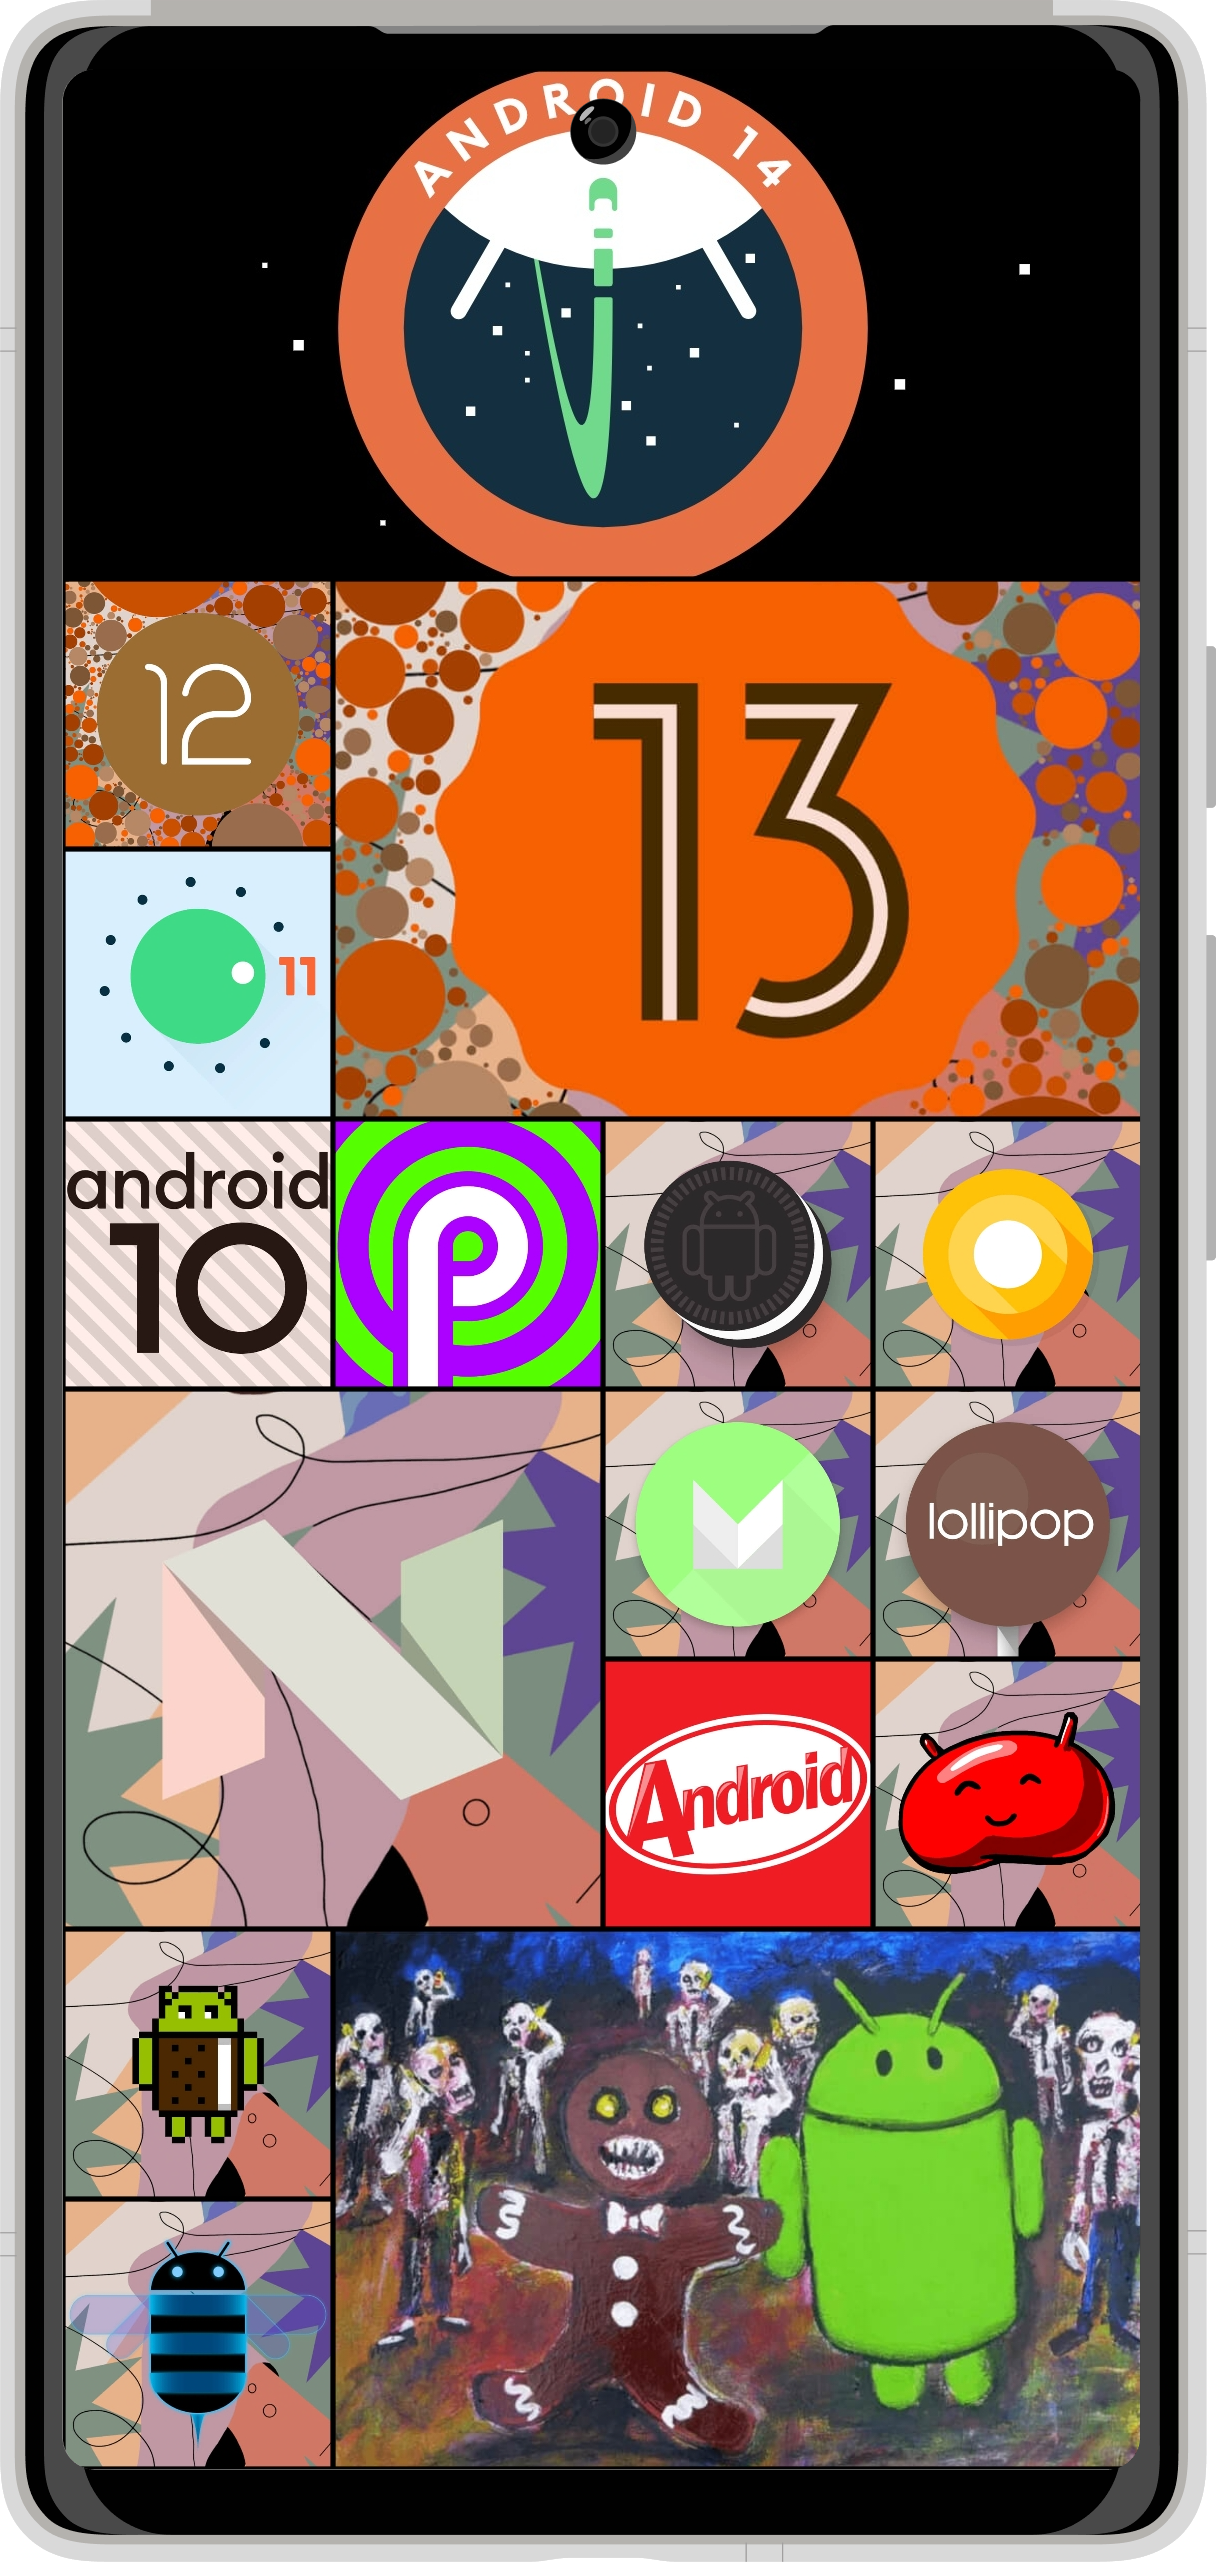
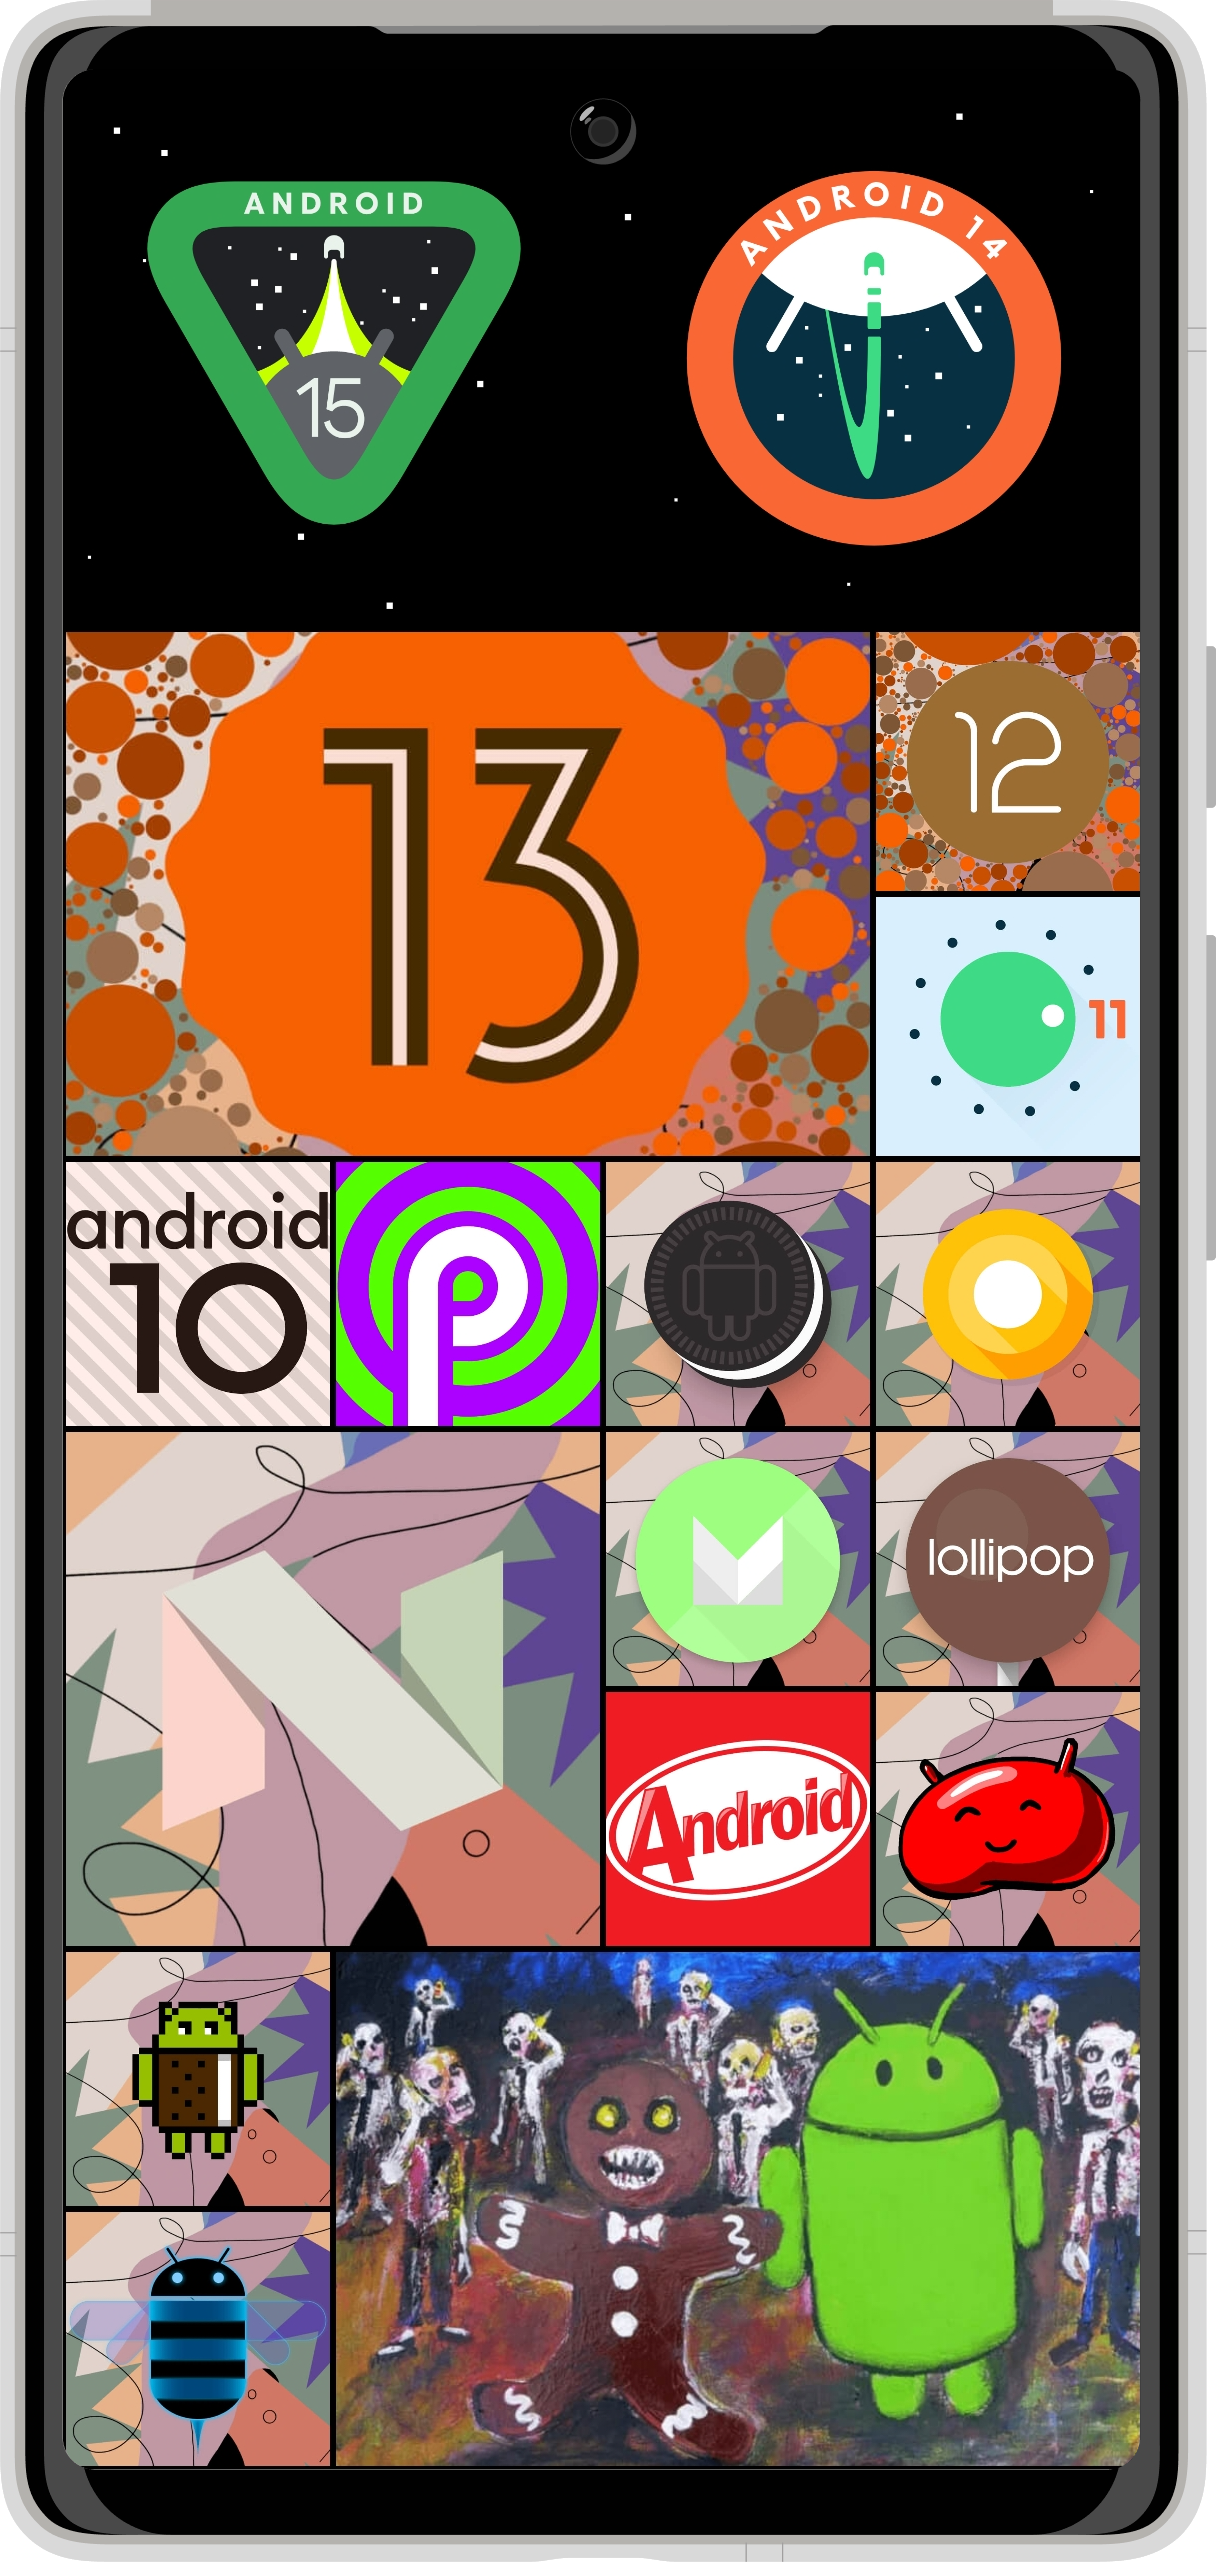
feat: Update feature graphic image

diff --git a/app/src/androidTest/java/com/dede/android_eggs/fake_test/GridScreenshotUtil.kt b/app/src/androidTest/java/com/dede/android_eggs/fake_test/GridScreenshotUtil.kt
@@ -33,14 +33,15 @@ class GridScreenshotUtil {
 
     companion object {
         // Pixel 5
-        private val TARGET_SIZE = Size(1080, 2340)
+        private val TARGET_SIZE = Size(1080, 2400)
 
-        private val GROUPS = listOf<Group>(
-            Split(540, 1),                // 1
-            Triple(520, true, 4),  // 3
-            Split(260, 4),                // 4
-            Pentad(510, false),            // 5
-            Triple(510, true, 4),   // 3
+        // 17 cells
+        private val GROUPS: List<Group> = listOf(
+            Split(560, 2),                // 2
+            Triple(530, false, 4),  // 3
+            Split(270, 4),                // 4
+            Pentad(520, false),            // 5
+            Triple(520, true, 4),   // 3
         )
 
         private const val ASSET_DIR = "screenshots"
@@ -240,9 +241,9 @@ class GridScreenshotUtil {
         screenshots.add(screenshots.size - 2, g)
         EasterEggsServer.start(context) {
             for (screenshot in screenshots) {
-                registerHandler("/$screenshot") {
+                registerHandler("/$screenshot.webp") {
                     cropScreenshot(context, screenshot)
-                        .toResponse(Bitmap.CompressFormat.JPEG, 100)
+                        .toResponse(Bitmap.CompressFormat.WEBP_LOSSLESS, 100)
                 }
             }
             registerHandler("/ic_grid_screenshot.jpeg") {
